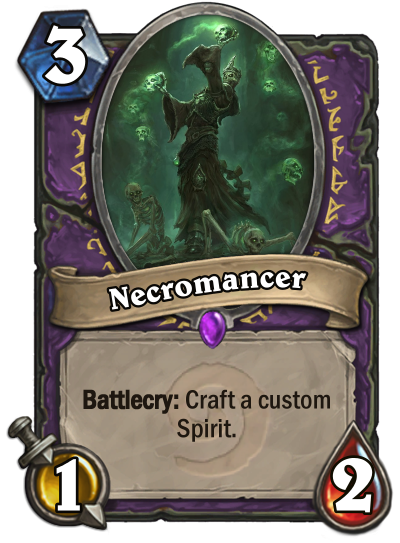
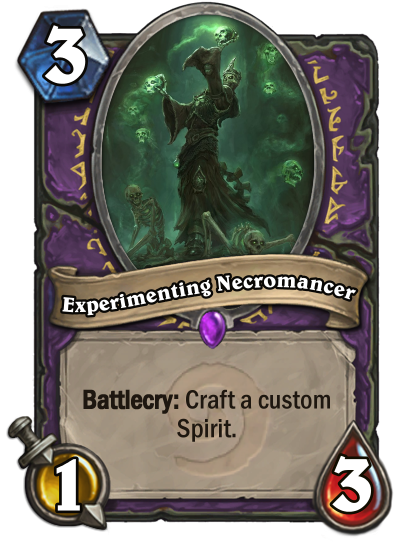
Changed to "Experimenting Necromancer"

diff --git a/index.html b/index.html
@@ -50,9 +50,9 @@
                     <div class="row">
                         <div class="col-md-4 bottom-margin">
                             <div id="necromancer" class="card border border-secondary">
-                                <img class="card-img-top clickable" src="images/necromancer.png" alt="Necromancer">
+                                <img class="card-img-top clickable" src="images/necromancer.png" alt="Experimenting Necromancer">
                                 <div class="card-body">
-                                    <h5 class="card-title">Necromancer</h5>
+                                    <h5 class="card-title">Experimenting Necromancer</h5>
                                     <p class="card-text">
                                         Custom Spirits is a combination of a trigger card and a Deathrattle card.
                                         <br />
